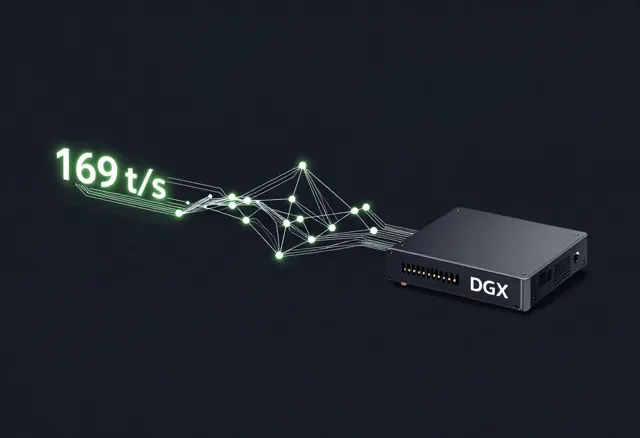
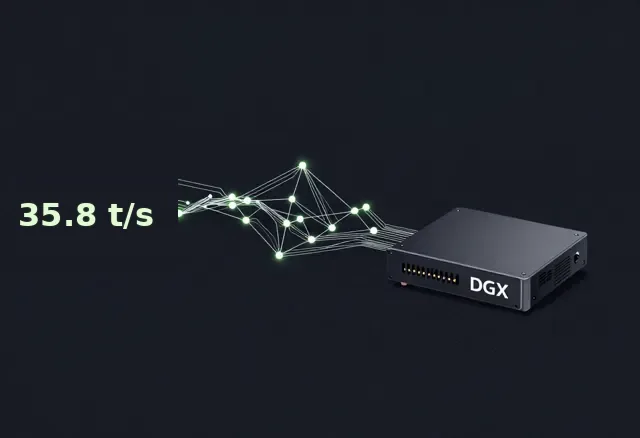
Point the homepage at the saved bench numbers.
Date the decode figure, show the zwell gate as 15 checks, rewrite the dream-stack card, and lead contact with GitHub and email.

Changed region(s): [[0.0312, 0.3265, 0.2812, 0.5342]]

diff --git a/index.html b/index.html
@@ -124,12 +124,12 @@
       <div class="marquee-track">
         <span>ISO&nbsp;13485</span><i>&#10022;</i>
         <span>fail-closed</span><i>&#10022;</i>
-        <span>19/19&nbsp;gate</span><i>&#10022;</i>
-        <span>169&nbsp;t/s&nbsp;measured</span><i>&#10022;</i>
+        <span>15-check&nbsp;gate</span><i>&#10022;</i>
+        <span>35.8&nbsp;t/s&nbsp;&middot;&nbsp;July&nbsp;2026</span><i>&#10022;</i>
         <span>ISO&nbsp;13485</span><i>&#10022;</i>
         <span>fail-closed</span><i>&#10022;</i>
-        <span>19/19&nbsp;gate</span><i>&#10022;</i>
-        <span>169&nbsp;t/s&nbsp;measured</span><i>&#10022;</i>
+        <span>15-check&nbsp;gate</span><i>&#10022;</i>
+        <span>35.8&nbsp;t/s&nbsp;&middot;&nbsp;July&nbsp;2026</span><i>&#10022;</i>
       </div>
     </div>
 
@@ -139,7 +139,7 @@
       <dl class="sys-grid" id="sys-grid">
         <div class="sys-cell"><dt>GPU memory</dt><dd class="num" data-count="121" data-suffix=" GB">121 GB</dd><dd class="sub">unified CPU+RAM, on-box</dd></div>
         <div class="sys-cell"><dt>Storage</dt><dd class="num" data-count="3.7" data-decimals="1" data-suffix=" TB">3.7 TB</dd><dd class="sub">NVMe, local weights</dd></div>
-        <div class="sys-cell"><dt>Decode</dt><dd class="num" data-count="169" data-suffix=" t/s">169 t/s</dd><dd class="sub">measured coding throughput</dd></div>
+        <div class="sys-cell"><dt>Decode</dt><dd class="num" data-count="35.8" data-decimals="1" data-suffix=" t/s">35.8 t/s</dd><dd class="sub">coding, 9 July 2026</dd></div>
         <div class="sys-cell"><dt>Art</dt><dd>on-metal</dd><dd class="sub">ComfyUI, no cloud API</dd></div>
       </dl>
     </section>
@@ -168,11 +168,11 @@
         <article class="card">
           <a class="card-top" href="https://github.com/Coinupbtc/zwell-bench" aria-label="zwell-bench on GitHub">
             <img class="card-img" src="assets/projects/zwell-bench.webp" alt="Endpoint-agnostic LLM benchmark suite — score dials and pass/fail checks" width="640" height="438" loading="lazy" decoding="async">
-            <span class="card-num" aria-hidden="true"><b>19</b> /19</span>
+            <span class="card-num" aria-hidden="true"><b>15</b> checks</span>
           </a>
           <div class="card-body">
             <h3><a href="https://github.com/Coinupbtc/zwell-bench">zwell-bench</a></h3>
-            <p>Release gate for local LLMs — coding, vision, tool and agentic checks. A candidate ships only at <strong>19/19</strong>. Caught a specialized build that beat the headline metric and still failed.</p>
+            <p>Release gate for local LLMs — coding, vision, tools, and agentic checks. A build ships only if every check passes. The published run from 16 July 2026 is <strong>14 of 15</strong>, one agentic miss.</p>
           </div>
         </article>
 
@@ -188,13 +188,13 @@
         </article>
 
         <article class="card">
-          <a class="card-top" href="https://github.com/Coinupbtc/miaai35-tune" aria-label="miaai35-tune on GitHub">
+          <a class="card-top" href="https://github.com/Coinupbtc/miaai35-tune/blob/main/RESULTS.md#primary-coding-decode-9-july-2026" aria-label="miaai35-tune results, coding decode on 9 July 2026">
             <img class="card-img" src="assets/projects/miaai35-tune.webp" alt="Local LLM serving bakeoff — measured tokens and tuning curve" width="640" height="438" loading="lazy" decoding="async">
-            <span class="card-num" aria-hidden="true"><b>169</b> t/s</span>
+            <span class="card-num" aria-hidden="true"><b>35.8</b> t/s</span>
           </a>
           <div class="card-body">
-            <h3><a href="https://github.com/Coinupbtc/miaai35-tune">miaai35-tune</a></h3>
-            <p>Flag-by-flag llama.cpp bakeoff on DGX Spark — serving settings from evidence, not vendor slides. Coding decode measured at <strong>169 t/s</strong>.</p>
+            <h3><a href="https://github.com/Coinupbtc/miaai35-tune/blob/main/RESULTS.md#primary-coding-decode-9-july-2026">miaai35-tune</a></h3>
+            <p>Flag-by-flag llama.cpp bakeoff on DGX Spark — serving settings from evidence, not vendor slides. Coding decode measured at <strong>35.8 tok/s</strong> on 9 July 2026, from a saved bench file.</p>
           </div>
         </article>
 
@@ -205,7 +205,7 @@
           </a>
           <div class="card-body">
             <h3><a href="https://github.com/Coinupbtc/dream-stack">dream-stack</a></h3>
-            <p>Two-node NVIDIA GB10 inference: Dockerized vLLM tensor-parallel plus a llama.cpp roommate. Clone, copy <code>.env</code>, bring the stack up.</p>
+            <p>Two DGX Sparks serve one model together, split across both machines, with a second model still resident beside it. Weights stay on the hardware.</p>
           </div>
         </article>
 
@@ -337,10 +337,6 @@
         <li>
           <a href="https://github.com/Coinupbtc">GitHub</a>
           <span>code, in the open</span>
-        </li>
-        <li>
-          <a href="https://x.com/coinupbtc">X &middot; @coinupbtc</a>
-          <span>build log, in public</span>
         </li>
         <li>
           <a href="mailto:coinupbtc@gmail.com">coinupbtc@gmail.com</a>
